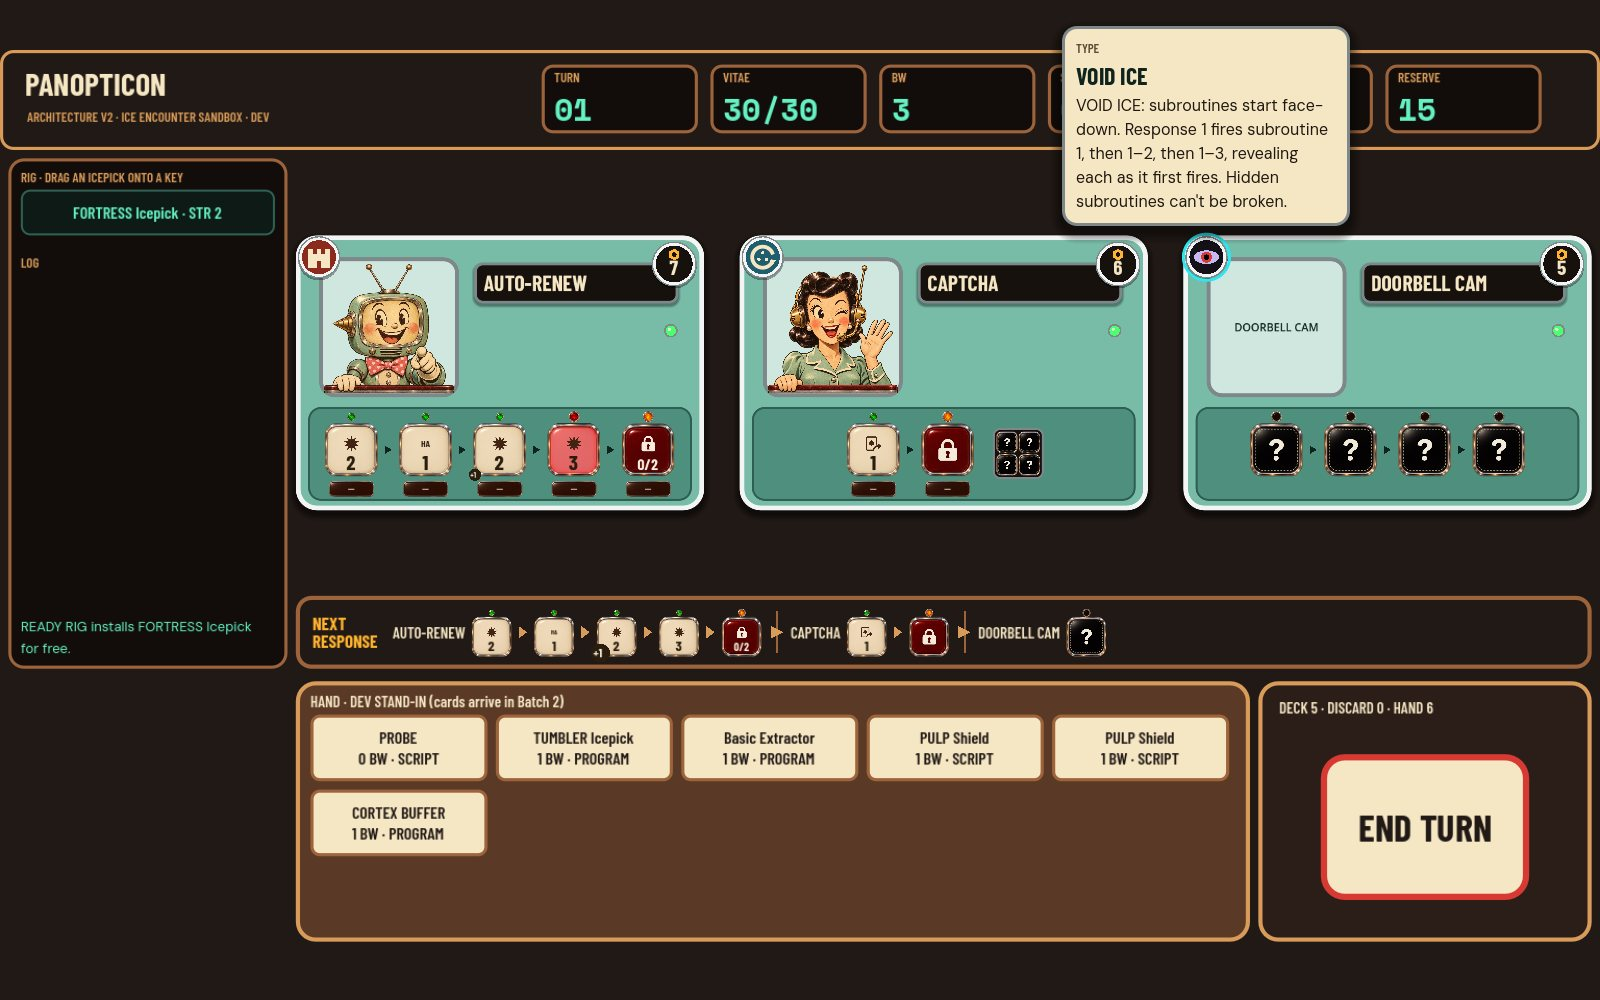
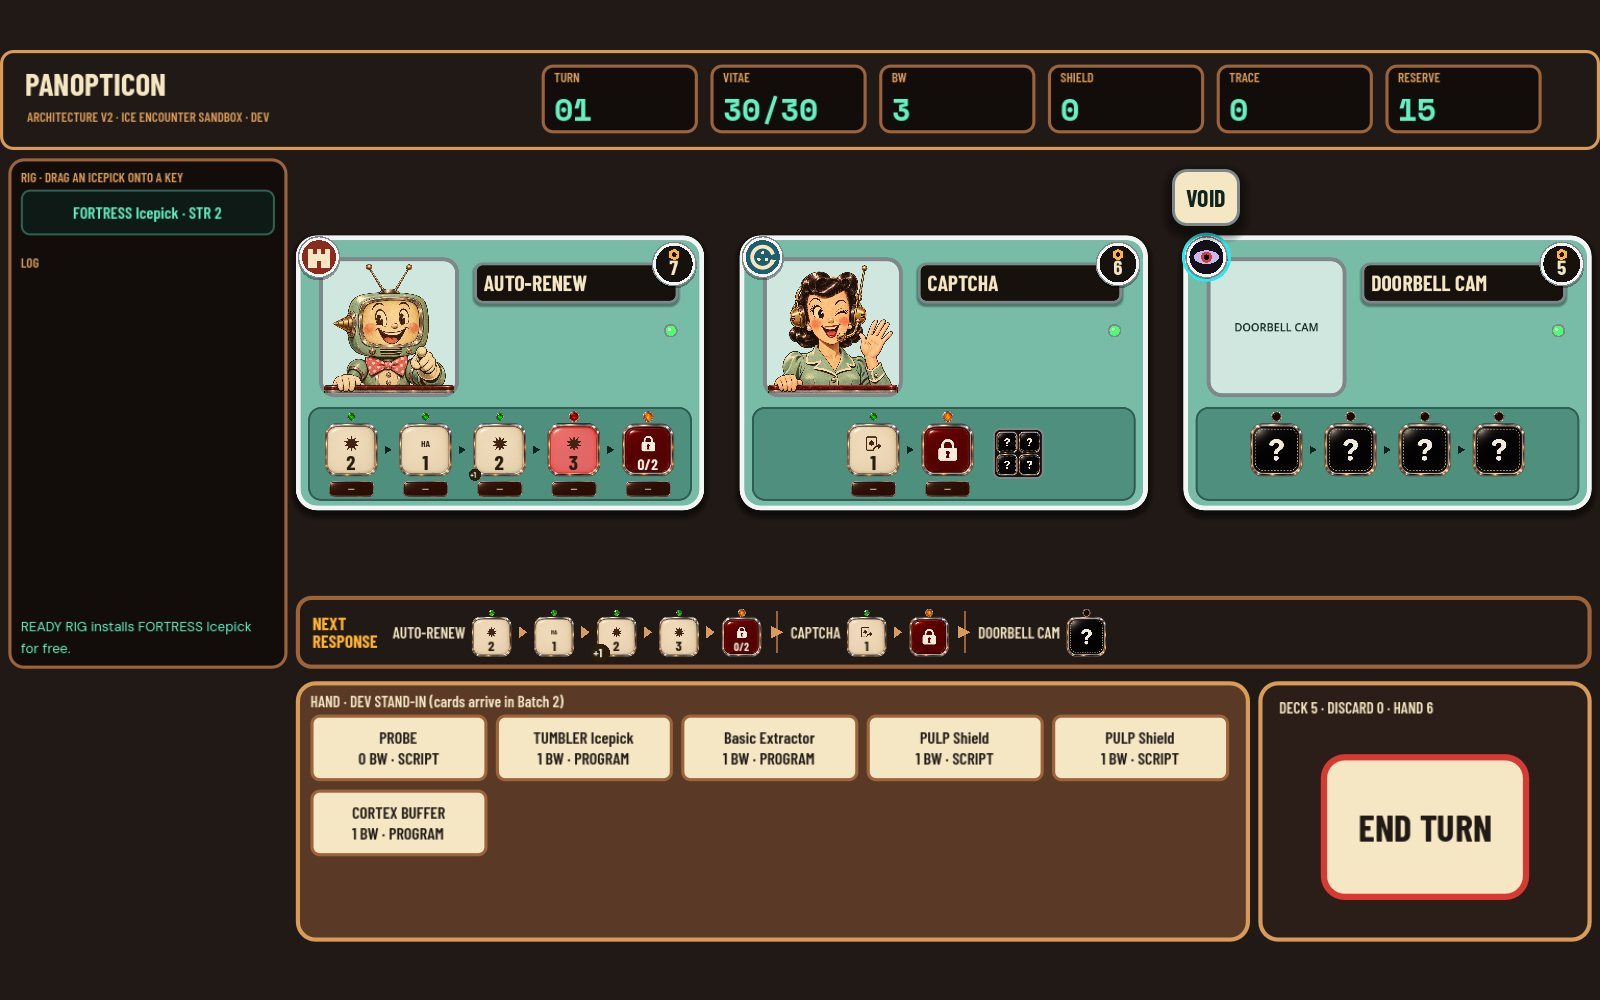
ARCH-V2-003j: ICE type and STR hover wording
Type badge hover shows only FORTRESS / TUMBLER / VOID; STR badge hover shows only
'ICE STRENGTH: n' with the current STR (designer 2026-11-26). Self-written type
explanations removed; one-line plates size to their words. test_arch_v2_ice 125/0;
baseline unchanged. Master Design, HANDOFF, log (LOG-001 moved two entries).

Claude-Session: https://claude.ai/code/session_019hKEHvB1ZMhQfwWSHJFSoY

Changed region(s): [[0.6562, 0.0, 0.8438, 0.248]]

diff --git a/docs/REDLINE_DEVELOPMENT_LOG.md b/docs/REDLINE_DEVELOPMENT_LOG.md
@@ -29,19 +29,7 @@ LOG-001 moved the oldest dated entries to the archive unchanged: 2026-11-18 — 
 
 LOG-001 moved the oldest dated entries to the archive unchanged: 2026-11-18 — RELEASE-001: builds come from a `release` branch (Claude).
 
-LOG-001 moved the oldest dated entries to the archive unchanged: 2026-11-20 — ChatGPT round 5 prompts: title screen and Rustler portraits (Claude); 2026-11-20 — AVATAR-001 LUCIDA amendment and round 6 prompts (Claude); 2026-11-20 — Round 6 v2: LUCIDA as mechanical nightmares, mockups first (Claude); 2026-11-20 — IRONWATCH avatar prework (Claude); 2026-11-20 — AVATAR-001 IRONWATCH amendment and round 7 prompts (Claude).
-
-## 2026-11-20 — IRONWATCH mockups reviewed (Claude)
-
-The designer sent ChatGPT's three IRONWATCH mockups (saved in `docs/visual/explorations/ironwatch-avatars/`). K9 UNIT's escalation matches the brief and becomes the reference image for the production prompts. Updated round 7 prompts 1–3: a large mood-coloured face turned to the viewer on every ICE (most lineup appliances had none), transparent backgrounds, and sharper PATTERN ANALYSIS, SHOCK TROOPER and SECURITY GUARD. Raised a per-corporation console colour as an idea.
-
-LOG-001 moved the oldest dated entries to the archive unchanged: 2026-11-18 — EVENT-002/003: choices in every event; a 10th event (Claude).
-
-## 2026-11-20 — ENC-CONCEPT-001 console colour per corporation (Claude Code)
-
-Designer: "yes add console colour". ICE consoles now take the corporation's enamel: HALCYON seafoam (unchanged), IRONWATCH navy #1F3A5F, LUCIDA lilac #C9B6F2. `encounter.gd` loads `UI_ICE_CONSOLE_2_<CORP>.png` when present; otherwise the new `themes/console_tint.gdshader` repaints only the seafoam enamel (chrome, brass and dark slots keep their colour). `console_ground()` returns the corporation's enamel and `console_ink()` picks cream on dark enamel for the meta, ZEROED and patent labels. `shot_facade` now checks console ink contrast for every corporation. ChatGPT prompt for painted versions: `docs/visual/concept-art/CHATGPT_PROMPTS_CONSOLES.md`. Presentation only. **Tests:** test_game 369/0, test_adp 17/0, test_signal_carbon 671/0; all 16 fixtures exit 0 with no script errors (shot_facade 0 failures, 8 captures).
-
-LOG-001 moved the oldest dated entries to the archive unchanged: 2026-11-18 — EVENT-004 direction: powerful Ghostware, permanent Bloatware (Claude).
+LOG-001 moved the oldest dated entries to the archive unchanged: 2026-11-20 — ChatGPT round 5 prompts: title screen and Rustler portraits (Claude); 2026-11-20 — AVATAR-001 LUCIDA amendment and round 6 prompts (Claude); 2026-11-20 — Round 6 v2: LUCIDA as mechanical nightmares, mockups first (Claude); 2026-11-20 — IRONWATCH avatar prework (Claude); 2026-11-20 — AVATAR-001 IRONWATCH amendment and round 7 prompts (Claude); 2026-11-20 — IRONWATCH mockups reviewed (Claude); 2026-11-20 — ENC-CONCEPT-001 console colour per corporation (Claude Code).
 
 ## 2026-11-21 — Designer calls: DEV-002b/c/h, PIXEL-TRACE-001c, PIXEL-16BIT-001, MOOD-PIXEL-001; checklist v0.7 (Claude)
 
@@ -426,3 +414,8 @@ Designer approved Batch 1 in principle with UI alignment requirements (recorded 
 ## 2026-11-26 — VAS-001 / UI-TYPO-001: approved visual fixtures (Codex)
 
 Built the standalone ICE and event typography scenes in `godot/tests/visual/`. Windows Godot 4.3 GL Compatibility capture checks passed for both. Baseline suites passed 176/0, 17/0 and 672/0. Rechecked the fixture captures on Batch 1 at `f7ad521`. Batch 1's automated suite passed 124/0 with CanvasItem/ObjectDB teardown warnings. The ICE study reads seeded N2A state. The typography study uses scripted payloads and compares full, reduced-motion and reduced-flash playback. Production wiring and review remain in [#21](https://github.com/Punkwork/REDLINE/issues/21) and [#24](https://github.com/Punkwork/REDLINE/issues/24).
+
+## 2026-11-26 — ARCH-V2-003j: ICE type and STR hover wording (Claude Code)
+
+Designer set the badge hover wording: the type badge shows only FORTRESS, TUMBLER or VOID; the STR badge shows only `ICE STRENGTH: n` (current STR). Implemented in `IcePanel._inspect_badge`; the self-written type explanations were removed from the adapter; one-line hover plates size to their words. `test_arch_v2_ice.gd` 125/0 (new STR check); baseline 176/17/672 unchanged; capture `docs/visual/fixtures/arch-v2-batch1/v2_11_void_type_inspector.jpg` refreshed. [#21](https://github.com/Punkwork/REDLINE/issues/21).
+

diff --git a/docs/HANDOFF.md b/docs/HANDOFF.md
@@ -42,7 +42,7 @@ This is the one list of work that has been **decided but not finished**, so Code
 | Switch the GitHub default branch to `architecture-v2` (ARCH-V2-002, approved) | Designer | **DONE** 2026-11-25 (verified via GitHub API) |
 | Propose hybrid scene/component/data architecture, component boundaries, signals, resources, migration plan and acceptance tests | Claude Code (design review with Claude) | BLUEPRINT DRAFTED and STATIC SOURCE AUDIT, DEPENDENCY MAP and proposed COMPONENT ARCHITECTURE SPEC (CAS-001) added in `docs/architecture-v2/`; Claude Code runtime verification and designer architecture review required |
 | Runtime inventory of CAS-001 C01–C18 and Batch 1 proposal (OPS-001 authorization 2026-11-26) | Claude Code | **DONE**: [report](operations/reports/2026-11-26-Claude-Code.md); baseline re-verified on `architecture-v2` (import 0; 176/0, SIM=1 176/0; 17/0; 672/0); VAS-001 SHA-256 recorded; N2A CAPTCHA proposed; Batch 1 and D1–D3 settled by the designer as ARCH-V2-003 (2026-11-26) |
-| ARCH-V2-003 Batch 1: ICE encounter components (C02, C04, C07–C09, C18), shared rail, event flyout, playable N2A sandbox | Claude Code | **BUILT** (approved in principle): `0ae151b` record, `1e07d20` components, `8017aad` tests/CI; `test_arch_v2_ice.gd` 124/0, baseline unchanged; 19 captures, evidence in `docs/visual/fixtures/arch-v2-batch1/`; [#21](https://github.com/Punkwork/REDLINE/issues/21), [#24](https://github.com/Punkwork/REDLINE/issues/24). Geometry, drawn icons and flyout treatment PROVISIONAL until the visual reference is agreed with ChatGPT and Codex. *Interpretations to confirm:* hover wording for ICE types and STR; amber ring for the firing key; fired rail steps dim; panels centred vertically at three ICE; Codex art drops in through `ice_panel_layout.tres` |
+| ARCH-V2-003 Batch 1: ICE encounter components (C02, C04, C07–C09, C18), shared rail, event flyout, playable N2A sandbox | Claude Code | **BUILT** (approved in principle): `0ae151b` record, `1e07d20` components, `8017aad` tests/CI; `test_arch_v2_ice.gd` 124/0, baseline unchanged; 19 captures, evidence in `docs/visual/fixtures/arch-v2-batch1/`; [#21](https://github.com/Punkwork/REDLINE/issues/21), [#24](https://github.com/Punkwork/REDLINE/issues/24). Geometry, drawn icons and flyout treatment PROVISIONAL until the visual reference is agreed with ChatGPT and Codex. Badge hover wording settled by the designer (ARCH-V2-003j: type only; `ICE STRENGTH: n`). *Interpretations to confirm:* amber ring for the firing key; fired rail steps dim; panels centred vertically at three ICE; Codex art drops in through `ice_panel_layout.tres` |
 | Build one representative playable ICE encounter without changing approved rules | Claude Code | IN PROGRESS: Batch 1 built (row above); Batches 2–4 (cards/choice, HUD/C03 sequencer, integration) next |
 | Compare behavior against prototype; demonstrate second corporation skin without duplicating the encounter UI | Claude Code | TO DO; after first encounter |
 | Design and approve a release procedure for builds from `architecture-v2` (RELEASE-001 still covers prototype builds from `main` only) | Designer / Claude Code | **DONE** 2026-11-25: RELEASE-002 APPROVED with (a), (b), (c); procedure in AGENTS/CLAUDE §5; (b) built in the workflow |

diff --git a/docs/REDLINE_DEVELOPMENT_LOG_ARCHIVE.md b/docs/REDLINE_DEVELOPMENT_LOG_ARCHIVE.md
@@ -2835,3 +2835,15 @@ LOG-001 moved the oldest dated entries to the archive unchanged: 2026-11-18 — 
 Designer answered the IRONWATCH prework: heavy civic machinery crossed with faceless authority, robot dogs and saucer drones, hidden hatches that open on gas hoses, tiny guns, lasers and especially syringes as the mood worsens; uniforms yes, faces no; FACADE-001 appliances as the base; mockups first. Recorded under AVATAR-001 and wrote `CHATGPT_PROMPTS_ROUND7_IRONWATCH.md` (3 mockups, then 67 images in three prompts, the four escape ICE newly designed). No code changes.
 
 LOG-001 moved the oldest dated entries to the archive unchanged: 2026-11-18 — UPL-006a: DATA PURGE costs +7 TRACE (Claude).
+
+## 2026-11-20 — IRONWATCH mockups reviewed (Claude)
+
+The designer sent ChatGPT's three IRONWATCH mockups (saved in `docs/visual/explorations/ironwatch-avatars/`). K9 UNIT's escalation matches the brief and becomes the reference image for the production prompts. Updated round 7 prompts 1–3: a large mood-coloured face turned to the viewer on every ICE (most lineup appliances had none), transparent backgrounds, and sharper PATTERN ANALYSIS, SHOCK TROOPER and SECURITY GUARD. Raised a per-corporation console colour as an idea.
+
+LOG-001 moved the oldest dated entries to the archive unchanged: 2026-11-18 — EVENT-002/003: choices in every event; a 10th event (Claude).
+
+## 2026-11-20 — ENC-CONCEPT-001 console colour per corporation (Claude Code)
+
+Designer: "yes add console colour". ICE consoles now take the corporation's enamel: HALCYON seafoam (unchanged), IRONWATCH navy #1F3A5F, LUCIDA lilac #C9B6F2. `encounter.gd` loads `UI_ICE_CONSOLE_2_<CORP>.png` when present; otherwise the new `themes/console_tint.gdshader` repaints only the seafoam enamel (chrome, brass and dark slots keep their colour). `console_ground()` returns the corporation's enamel and `console_ink()` picks cream on dark enamel for the meta, ZEROED and patent labels. `shot_facade` now checks console ink contrast for every corporation. ChatGPT prompt for painted versions: `docs/visual/concept-art/CHATGPT_PROMPTS_CONSOLES.md`. Presentation only. **Tests:** test_game 369/0, test_adp 17/0, test_signal_carbon 671/0; all 16 fixtures exit 0 with no script errors (shot_facade 0 failures, 8 captures).
+
+LOG-001 moved the oldest dated entries to the archive unchanged: 2026-11-18 — EVENT-004 direction: powerful Ghostware, permanent Bloatware (Claude).

diff --git a/docs/REDLINE_MASTER_DESIGN.md b/docs/REDLINE_MASTER_DESIGN.md
@@ -3310,4 +3310,6 @@ ChatGPT's independent check of `main` references covered the principal governanc
 - **(h) Engineering approved in principle:** the sandbox, controller (C02), adapter (C04), testing strategy, production file ownership (Claude Code) and separation from Codex's visual fixtures (`godot/tests/visual/`).
 - **(i) Coordination.** Agree the latest visual reference with ChatGPT and Codex before locking component geometry or icon treatments; keep presentation assets and layout parameters replaceable so visual exploration needs no architectural rework. Confirm alignment before finalizing visual components.
 
+- **(j) Badge hover wording (designer, 2026-11-26 08:20):** "For ice Types display the type of ice [Fortress, Tumbler, Void] for STR display the word 'ICE STRENGTH: [str value]' where the str value is the current STR of the ice." The type badge's hover panel shows only the type (FORTRESS, TUMBLER or VOID); the STR badge's shows only `ICE STRENGTH: n`, n being the ICE's current STR. No explanatory rule text.
+
 **Status:** Batch 1 **APPROVED IN PRINCIPLE**. Implemented as reversible technical foundations (see HANDOFF and the development log for commits). Component geometry, the drawn type/STR icons and the flyout treatment are **PROVISIONAL** and held in replaceable resources (`godot/themes/architecture_v2/ice_panel_layout.tres`, `VasTokens`) until the visual reference is agreed. No gameplay, rules or project-setting change.
